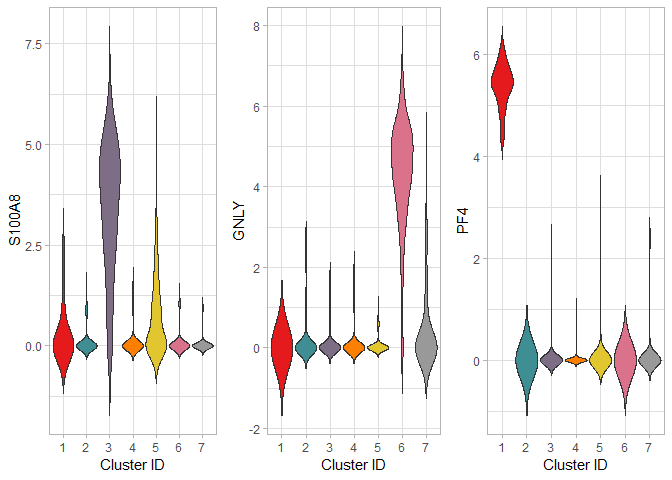
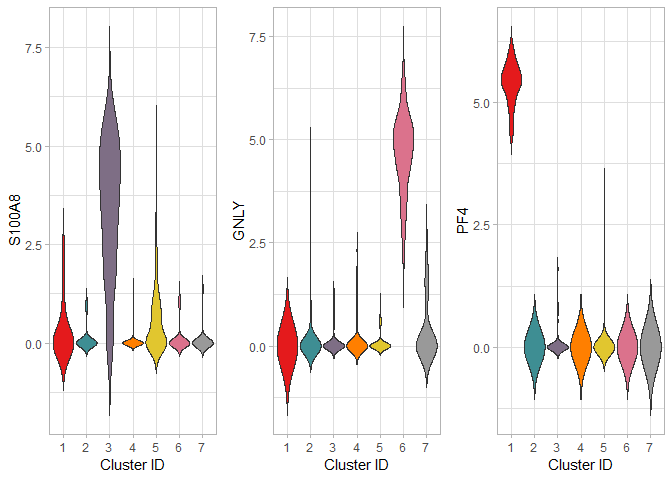
man updates

diff --git a/vignettes/vignette.md b/vignettes/vignette.md
@@ -19,6 +19,8 @@ REPORT_DIR  <- file.path(WORK_DIR,"report")
 
 dir.create(file.path(FIG_DIR),showWarnings = FALSE)
 dir.create(file.path(REPORT_DIR),showWarnings = FALSE)
+
+set.seed(0)
 ```
 
 Loading data
@@ -139,7 +141,7 @@ clust.list<-cluster.cells(data = whole[,top_pc_genes], sp.samples = subsamples_l
 #> Build Graph...
 #> Find ANN...
 #> Assign Cluster Ids...
-#> Unassigned Cells 238 
+#> Unassigned Cells 260 
 #> Number of Predicted Clusters: 7
 ```
 
@@ -239,68 +241,68 @@ DE_genes_nodes_all  <- DE_genes(de_data = de.mat, selected_clusters = GRP, lfc_t
 #> Completed successfully.
 
 DE_genes_nodes_all$genes
-#>       cluster_1   cluster_2  cluster_3 cluster_4   cluster_5      
-#>  [1,] "ITGA2B"    "IL7R"     "LGALS2"  "CD79A"     "RP11-290F20.3"
-#>  [2,] "GP9"       "CD3D"     "S100A8"  "MS4A1"     "MS4A7"        
-#>  [3,] "SPARC"     "LDHB"     "S100A9"  "CD79B"     "LST1"         
-#>  [4,] "TUBB1"     "CD3E"     "MS4A6A"  "TCL1A"     "IFITM3"       
-#>  [5,] "GNG11"     "RPS25"    "LYZ"     "HLA-DQB1"  "CDKN1C"       
-#>  [6,] "TMEM40"    "CD74"     "CD14"    "LINC00926" "AIF1"         
-#>  [7,] "PTCRA"     "HLA-DRA"  "FCN1"    "HLA-DQA1"  "HES4"         
-#>  [8,] "SDPR"      "LTB"      "GPX1"    "CD74"      "SERPINA1"     
-#>  [9,] "PF4"       "HLA-DPA1" "CST3"    "VPREB3"    "LILRA3"       
-#> [10,] "CLU"       "LEF1"     "TYROBP"  "HLA-DRA"   "COTL1"        
-#> [11,] "CMTM5"     "CYBA"     "GSTP1"   "HLA-DRB1"  "FCER1G"       
-#> [12,] "CD9"       "HLA-DRB1" "TYMP"    "HLA-DPB1"  "IFI30"        
-#> [13,] "TREML1"    "TYROBP"   "MALAT1"  "S100A4"    "CFD"          
-#> [14,] "MYL9"      "HLA-DPB1" "ALDH2"   "FCER2"     "HCK"          
-#> [15,] "ACRBP"     "FCER1G"   "FOLR3"   "RPL18A"    "HMOX1"        
-#> [16,] "CA2"       "AQP3"     "S100A6"  "TMSB4X"    "LRRC25"       
-#> [17,] "PPBP"      "IL32"     "LGALS1"  "LTB"       "PILRA"        
-#> [18,] "HIST1H2AC" "RPS29"    "BLVRB"   "SRGN"      "CEBPB"        
-#> [19,] "NRGN"      "CD40LG"   "LGALS3"  "HLA-DPA1"  "FTH1"         
-#> [20,] "RGS18"     "FLT3LG"   "GRN"     "RPS23"     "FCGR3A"       
-#> [21,] "CLDN5"     "TRAT1"    "CSF3R"   "S100A6"    "PSAP"         
-#> [22,] "NGFRAP1"   "MAL"      "FTL"     "BLK"       "LILRA5"       
-#> [23,] "TSC22D1"   "HLA-DRB5" "AP1S2"   "CD37"      "LILRB2"       
-#> [24,] "PGRMC1"    "CCR7"     "NUP214"  "HLA-DRB5"  "CD68"         
-#> [25,] "TPM1"      "CD27"     "ASGR1"   "CD72"      "SIGLEC10"     
-#> [26,] "GRAP2"     "NOSIP"    "B2M"     "HVCN1"     "SPI1"         
-#> [27,] "RUFY1"     "TCF7"     "AIF1"    "KIAA0125"  "CKB"          
-#> [28,] "TPM4"      "ARPC3"    "PTPRCAP" "BANK1"     "S100A11"      
-#> [29,] "PLA2G12A"  "SRGN"     "FTH1"    "LGALS1"    "STXBP2"       
-#> [30,] "MPP1"      "OAZ1"     "CEBPD"   "RPS5"      "CTSS"         
-#>       cluster_6 cluster_7 
-#>  [1,] "GNLY"    "GZMH"    
-#>  [2,] "GZMB"    "CD8A"    
-#>  [3,] "PRF1"    "CD3D"    
-#>  [4,] "SPON2"   "CCL5"    
-#>  [5,] "GZMA"    "CD8B"    
-#>  [6,] "CTSW"    "CST7"    
-#>  [7,] "FGFBP2"  "IL32"    
-#>  [8,] "NKG7"    "NKG7"    
-#>  [9,] "CST7"    "TIGIT"   
-#> [10,] "CD247"   "KLRG1"   
-#> [11,] "CLIC3"   "GZMA"    
-#> [12,] "XCL2"    "LYAR"    
-#> [13,] "GZMM"    "CD3G"    
-#> [14,] "KLRD1"   "FGFBP2"  
-#> [15,] "CD7"     "LCK"     
-#> [16,] "CCL4"    "PTPRCAP" 
-#> [17,] "AKR1C3"  "CTSW"    
-#> [18,] "HOPX"    "TYROBP"  
-#> [19,] "B2M"     "CD2"     
-#> [20,] "APMAP"   "FCER1G"  
-#> [21,] "HLA-A"   "GZMM"    
-#> [22,] "HLA-C"   "FCRL6"   
-#> [23,] "TTC38"   "FTL"     
-#> [24,] "IGFBP7"  "CD99"    
-#> [25,] "MATK"    "RARRES3" 
-#> [26,] "XCL1"    "FTH1"    
-#> [27,] "PLAC8"   "HLA-DRA" 
-#> [28,] "HLA-B"   "CD3E"    
-#> [29,] "FCGR3A"  "LST1"    
-#> [30,] "RARRES3" "C1orf162"
+#>       cluster_1   cluster_2   cluster_3 cluster_4   cluster_5      
+#>  [1,] "ITGA2B"    "CD3D"      "LGALS2"  "CD79A"     "MS4A7"        
+#>  [2,] "GP9"       "IL7R"      "S100A8"  "MS4A1"     "LST1"         
+#>  [3,] "SPARC"     "LDHB"      "S100A9"  "LINC00926" "HES4"         
+#>  [4,] "TMEM40"    "IL32"      "LYZ"     "HLA-DQA1"  "RP11-290F20.3"
+#>  [5,] "TUBB1"     "CD3E"      "CD14"    "TCL1A"     "IFITM3"       
+#>  [6,] "GNG11"     "RPS25"     "FCN1"    "HLA-DQB1"  "AIF1"         
+#>  [7,] "CLU"       "LTB"       "MS4A6A"  "CD74"      "CDKN1C"       
+#>  [8,] "CD9"       "AQP3"      "CST3"    "VPREB3"    "FCER1G"       
+#>  [9,] "SDPR"      "CD2"       "GRN"     "CD79B"     "SERPINA1"     
+#> [10,] "TREML1"    "TRAT1"     "GPX1"    "HLA-DRA"   "FCGR3A"       
+#> [11,] "PTCRA"     "RPS29"     "CSF3R"   "HLA-DPB1"  "COTL1"        
+#> [12,] "PF4"       "JUNB"      "GSTP1"   "CD37"      "CFD"          
+#> [13,] "PPBP"      "CD27"      "TYROBP"  "FCER2"     "SPI1"         
+#> [14,] "CMTM5"     "FLT3LG"    "ALDH2"   "HLA-DRB1"  "CD68"         
+#> [15,] "MYL9"      "CCR7"      "FOLR3"   "FCRLA"     "LRRC25"       
+#> [16,] "NRGN"      "NPM1"      "AP1S2"   "BANK1"     "STXBP2"       
+#> [17,] "RGS18"     "MAL"       "S100A6"  "HLA-DQA2"  "CKB"          
+#> [18,] "ACRBP"     "RGCC"      "BST1"    "RPS23"     "PILRA"        
+#> [19,] "NGFRAP1"   "GIMAP5"    "ASGR1"   "HLA-DPA1"  "CTSL"         
+#> [20,] "HIST1H2AC" "NOSIP"     "LGALS1"  "CD72"      "FTH1"         
+#> [21,] "CA2"       "CD3G"      "FTL"     "RPS5"      "SAT1"         
+#> [22,] "CLDN5"     "TMEM66"    "TYMP"    "LTB"       "TIMP1"        
+#> [23,] "TPM1"      "PRKCQ-AS1" "LGALS3"  "P2RX5"     "LILRA3"       
+#> [24,] "PGRMC1"    "LCK"       "BLVRB"   "HLA-DMB"   "PSAP"         
+#> [25,] "GRAP2"     "PIK3IP1"   "GABARAP" "HLA-DRB5"  "CEBPB"        
+#> [26,] "RUFY1"     "AES"       "FPR1"    "HLA-DMA"   "LILRB2"       
+#> [27,] "TPM4"      "ZFP36L2"   "FCGRT"   "HVCN1"     "IFITM2"       
+#> [28,] "TSC22D1"   "TMEM123"   "CEBPD"   "HLA-DOB"   "CTSS"         
+#> [29,] "MPP1"      "JUN"       "CFP"     "KIAA0125"  "S100A11"      
+#> [30,] "PLA2G12A"  "CD40LG"    "S100A12" "BLNK"      "CSF1R"        
+#>       cluster_6 cluster_7
+#>  [1,] "GZMB"    "GZMH"   
+#>  [2,] "GNLY"    "CD3D"   
+#>  [3,] "PRF1"    "CCL5"   
+#>  [4,] "SPON2"   "CD8B"   
+#>  [5,] "FGFBP2"  "CD8A"   
+#>  [6,] "GZMA"    "CST7"   
+#>  [7,] "CST7"    "CD3G"   
+#>  [8,] "CTSW"    "IL32"   
+#>  [9,] "NKG7"    "GZMA"   
+#> [10,] "HOPX"    "NKG7"   
+#> [11,] "CD247"   "TIGIT"  
+#> [12,] "CCL4"    "FCRL6"  
+#> [13,] "KLRD1"   "FGFBP2" 
+#> [14,] "CLIC3"   "CCL4"   
+#> [15,] "CD7"     "GZMM"   
+#> [16,] "XCL2"    "LCK"    
+#> [17,] "GZMM"    "PTPRCAP"
+#> [18,] "AKR1C3"  "CTSW"   
+#> [19,] "APMAP"   "KLRG1"  
+#> [20,] "B2M"     "PTPN7"  
+#> [21,] "HLA-C"   "MYL12B" 
+#> [22,] "IGFBP7"  "CHST12" 
+#> [23,] "HLA-A"   ""       
+#> [24,] "TTC38"   ""       
+#> [25,] "PLAC8"   ""       
+#> [26,] "RARRES3" ""       
+#> [27,] "XCL1"    ""       
+#> [28,] "GZMH"    ""       
+#> [29,] "UBB"     ""       
+#> [30,] "HLA-B"   ""
 
 write.csv(DE_genes_nodes_all$genes, 
           file = file.path(REPORT_DIR, "ct_genes.csv"),
